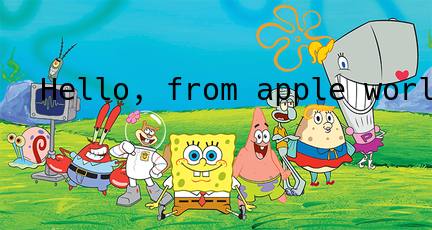
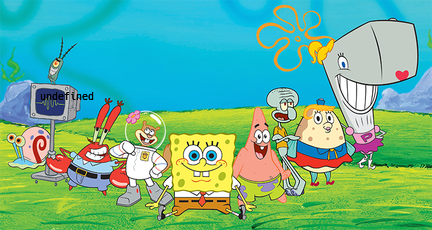
check for missing elements, badly

Changed region(s): [[0.3912, 0.3348, 0.8125, 0.4565], [0.0903, 0.3348, 0.331, 0.4565], [0.8426, 0.3348, 1.0, 0.4565]]

diff --git a/dotmeme.js b/dotmeme.js
@@ -20,13 +20,20 @@ fs.readFile(process.argv[2], 'utf8', async function(err, data) {
     // TODO: make like everything better.
     loadImage(parsedData.background).then((image) => {
     logger.info(`Loaded background.`)
-    logger.info(`Canvas will be created with dimensions from bg: ${image.width}x${image.height}`)
+    logger.info(`Dimensions from bg: ${image.width}x${image.height}`)
     const canvas = createCanvas(image.width, image.height);
     const ctx = canvas.getContext('2d')
     ctx.drawImage(image, 0, 0, image.width, image.height)
     logger.info('Canvas created with background. Now writing text elements.')
 
-    parsedData.textElements.forEach(element => {
+    parsedData.textElements.forEach((element, i) => {
+        // Really bad checking :D
+        if (!element.font) { logger.warn(`Font is missing from element ${i}`)}
+        if (!element.color) { logger.warn(`Color is missing from element ${i}`)}
+        if (!element.text) { logger.warn(`Text is missing from element ${i}`)}
+        if (!element.x) { logger.warn(`X pos is missing from element ${i}`)}
+        if (!element.y) { logger.warn(`Y pos is missing from element ${i}`)}
+
         ctx.font = element.font
         ctx.fillStyle = element.color
         ctx.fillText(element.text, element.x, element.y)
@@ -35,7 +42,7 @@ fs.readFile(process.argv[2], 'utf8', async function(err, data) {
     const out = fs.createWriteStream(`outA.png`)
     const stream = canvas.createPNGStream()
     stream.pipe(out)
-    out.on('finish', () =>  console.log(`Successfully assembled meme. (took ${process.uptime()} seconds)`))
+    out.on('finish', () =>  logger.info(`Successfully assembled meme. (took ${process.uptime()} seconds)`))
 })
 
 
